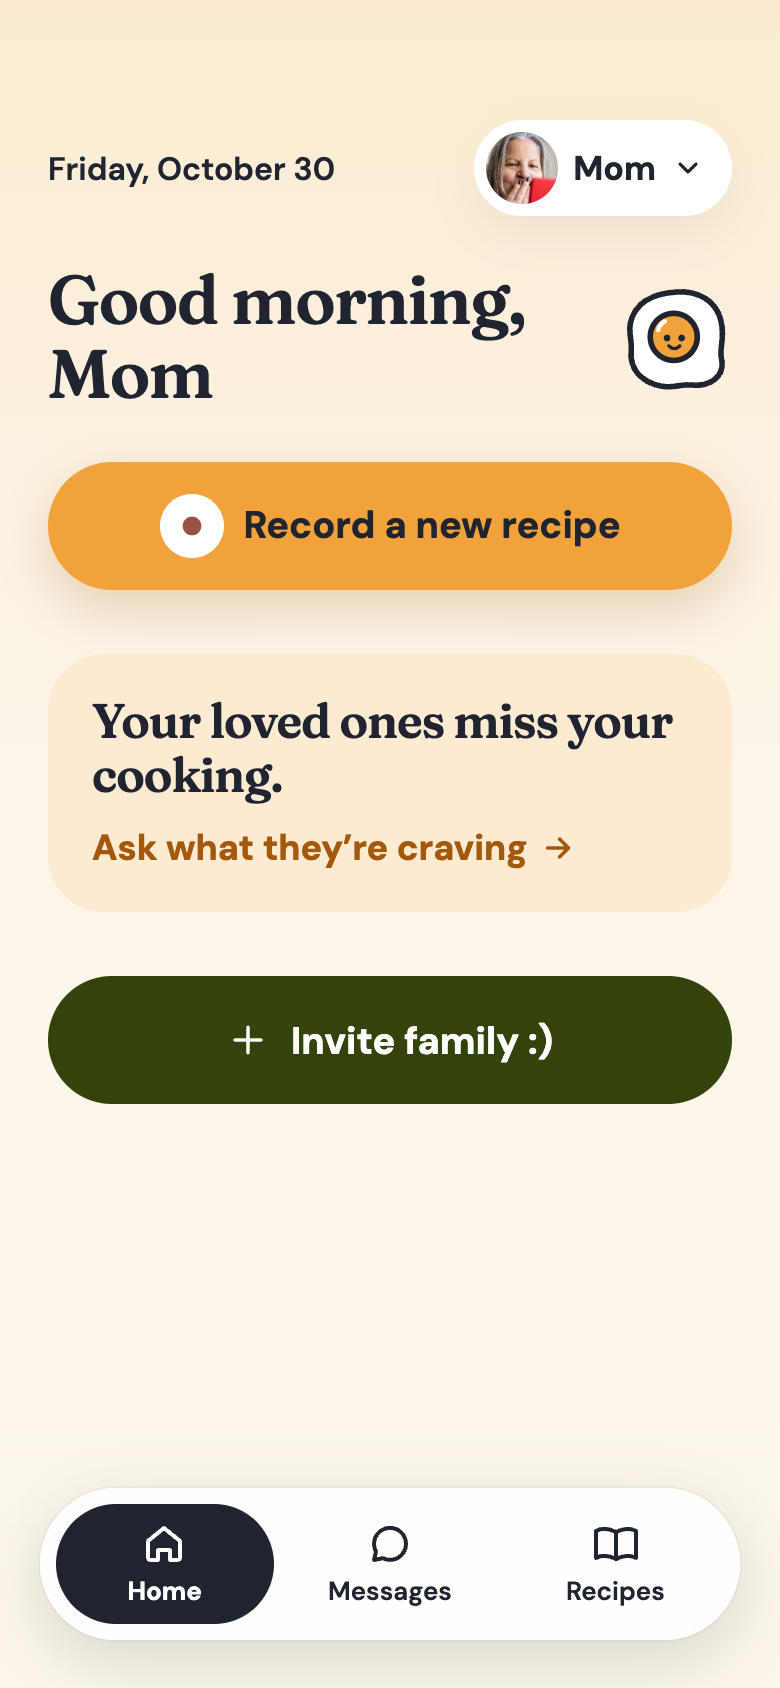
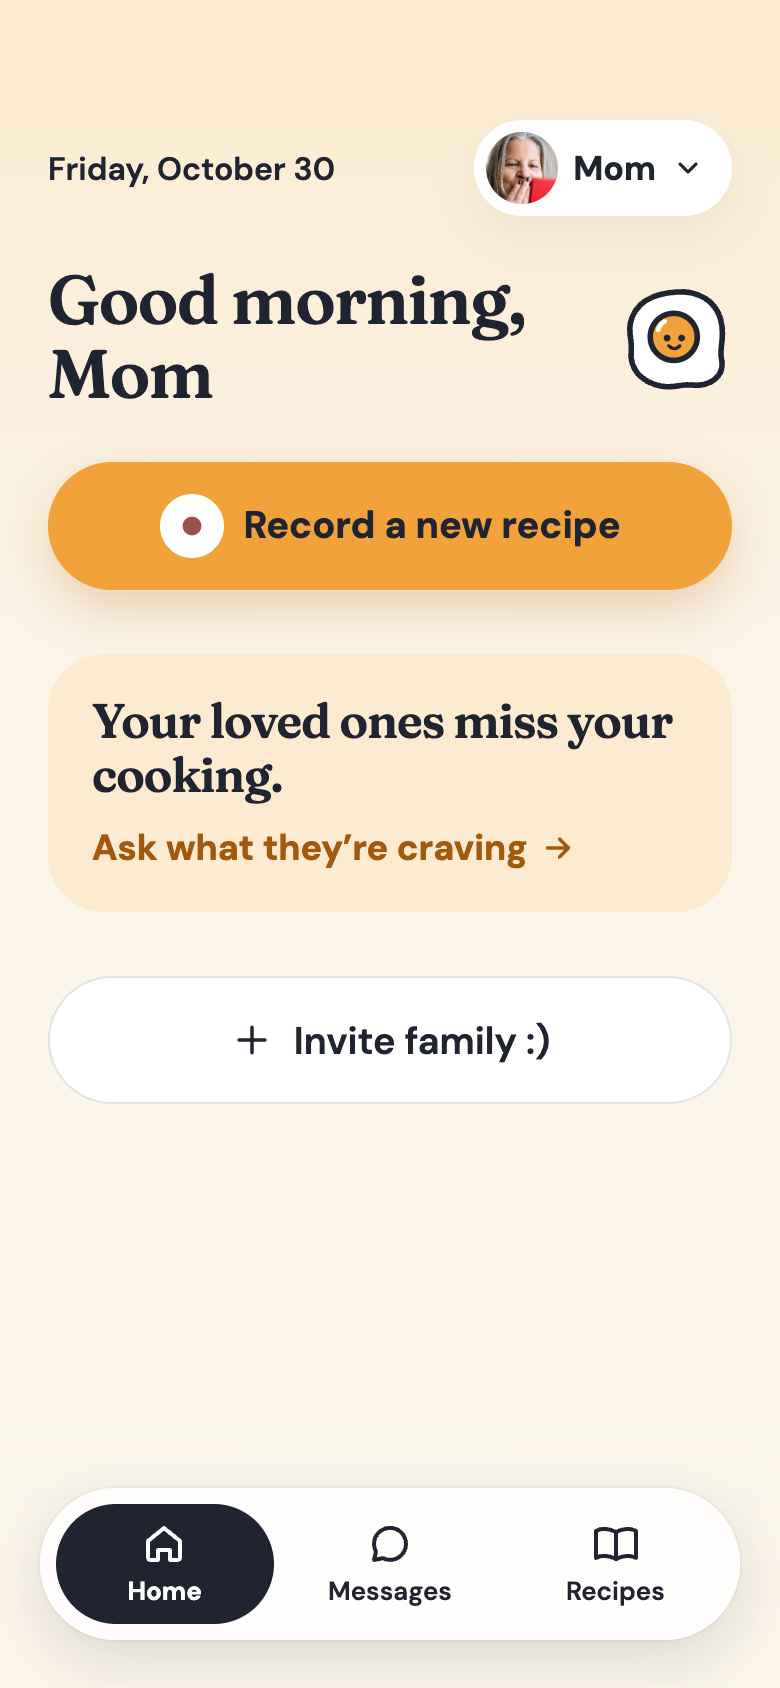
Egg brand: Invite family is a quiet outline, so Record stays parent Home's one filled button

Changed region(s): [[0.0615, 0.5545, 0.9538, 0.6777]]

diff --git a/app/src/components/invite/InviteButton.tsx b/app/src/components/invite/InviteButton.tsx
@@ -1,5 +1,5 @@
-// "Invite family :)": the one big invite button on parent Home and kid Home, dark green (the second
-// color) so it stands apart from parent Home's yolk "Record a new recipe". Opens the shared,
+// "Invite family :)": the invite button on parent Home, a quiet white outline so "Record a new recipe"
+// stays the one filled button there (Caleb, Oct 29: one primary action per parent screen). Opens the shared,
 // no-question invite share sheet (AddFamilySheet): one family link, sent by Copy link, Messages,
 // Instagram, ... ; whoever opens it adds themselves, so it invites anyone.
 import { useState } from 'react';
@@ -10,7 +10,7 @@ import { ActionButton, PlusIcon, type ActionVariant } from '@/components/ui';
 import { useWords } from '@/lib/words/useWords';
 import { colors } from '@/theme/tokens';
 
-export function InviteButton({ variant = 'secondary', style }: { variant?: ActionVariant; style?: StyleProp<ViewStyle> }) {
+export function InviteButton({ variant = 'outline', style }: { variant?: ActionVariant; style?: StyleProp<ViewStyle> }) {
   // A fresh key per open, so the sheet's form starts empty every time.
   const [sheet, setSheet] = useState({ open: false, n: 0 });
   const { t } = useWords();
